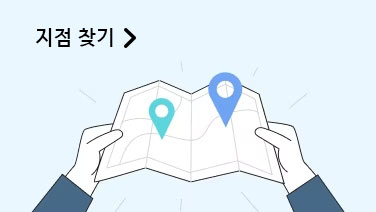
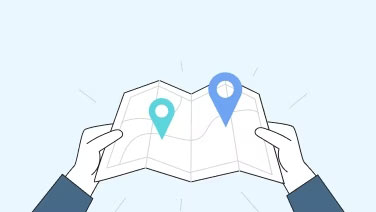
[Docs] Article05 수정
이미지와 코드를 수정했습니다.

Resolves: #1

Changed region(s): [[0.0878, 0.1132, 0.3803, 0.2264]]

diff --git a/src/Components/Main_Page/Article05/Article05.js b/src/Components/Main_Page/Article05/Article05.js
@@ -1,3 +1,5 @@
+/* eslint-disable */
+
 import './Article05.css'
 import Data_Article05 from './Data_Article05/Data_Article05'
 import { FontAwesomeIcon } from "@fortawesome/react-fontawesome"
@@ -23,7 +25,12 @@ function Article05() {
                                 className='Data_Article05_li'
                             >
                                 <a href="#">
-                                    <img src={item.img[`img0${id + 1}`]} alt='박스' />
+                                    <div className='Data_Article05_ContentBox'>
+                                        <img src={item.img[`img0${id + 1}`]} alt='박스' />
+                                        <div className='Data_Article05_Title'>
+                                            <span>{item.Title}</span>
+                                        </div>
+                                    </div>
                                 </a>
                             </li>
                         })}

diff --git a/src/Components/Main_Page/Article05/Data_Article05/Data_Article05.js b/src/Components/Main_Page/Article05/Data_Article05/Data_Article05.js
@@ -1,3 +1,5 @@
+/* eslint-disable */
+
 import img01 from '../../../../asset/img/Article05/img01.jpg'
 import img02 from '../../../../asset/img/Article05/img02.jpg'
 import img03 from '../../../../asset/img/Article05/img03.jpg'
@@ -5,15 +7,18 @@ import img03 from '../../../../asset/img/Article05/img03.jpg'
 const Data_Article05 = [
     {
         id: 0,
-        img: { img01 }
+        img: { img01 },
+        Title: "지점찾기",
     },
     {
         id: 1,
-        img: { img02 }
+        img: { img02 },
+        Title: "PT 받으러 가기",
     },
     {
         id: 2,
-        img: { img03 }
+        img: { img03 },
+        Title: "짐박스 멤버십"
     },
 ]
 

diff --git a/src/Components/Main_Page/Article05/Article05.css b/src/Components/Main_Page/Article05/Article05.css
@@ -36,8 +36,22 @@
     justify-content: space-around;
 }
 
-
 .Data_Article05_li img{ 
     width: 376px;
     height: 212px;
+}
+
+.Data_Article05_ContentBox {
+    position: relative;
+}
+
+.Data_Article05_Title {
+    position: absolute;
+    top: 10%;
+    left: 5%;
+    font-size: 18px;
+}
+
+.Data_Article05_Title p:nth-child(1) {
+    border: 1px solid red;
 }
